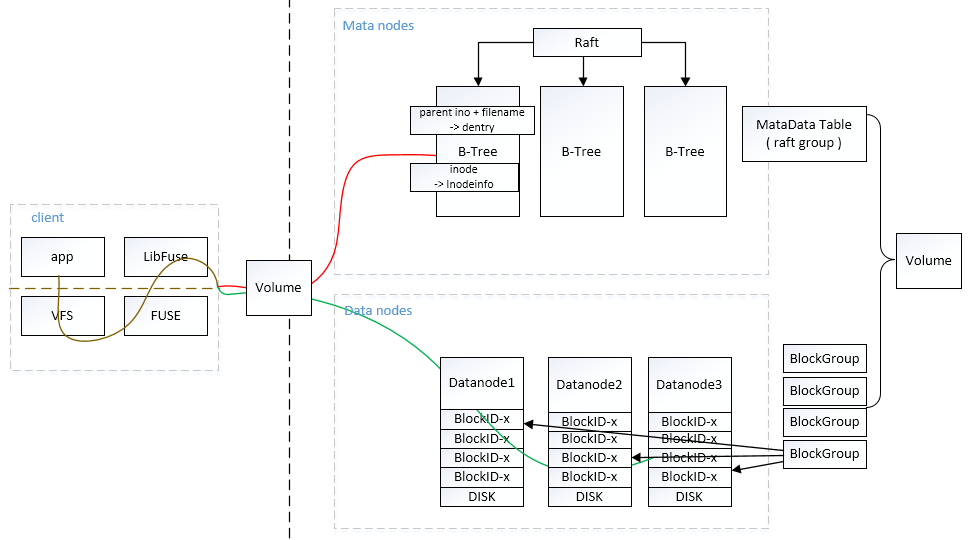
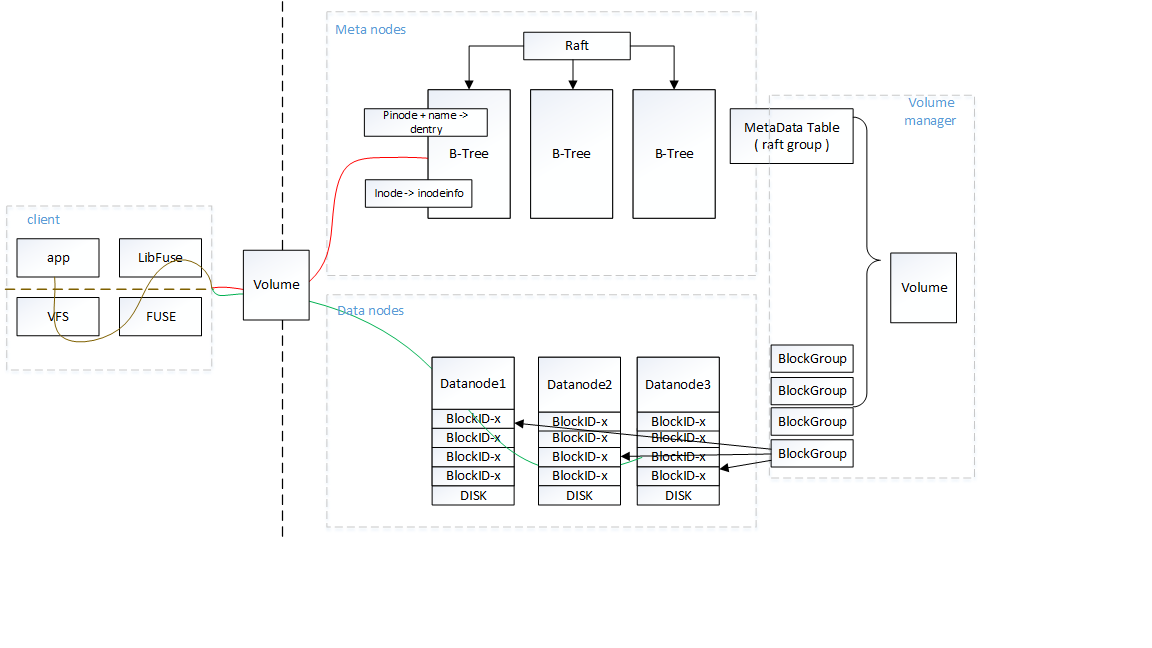
fix spelling mistakes

diff --git a/doc/design.md b/doc/design.md
@@ -7,12 +7,12 @@ See the later sections for more details of each Containerfs component.
 
 #### Volume  
 Volume is a Containerfs instance.  One Containerfs cluster can host millions of volumes.
-A volume has one matadata table and unlimited number of block groups
+A volume has one metadata table and unlimited number of block groups
 
 #### Inode  
 Inode is a data structure recording the file or directory attributes, indexed with a unique 64bit integer.
 
-#### Matadata Table 
+#### Metadata Table 
 A metadata table is a sorted key-value map from "parent inodeID + name" to inode attributes.
 One volume is associated with a metadata table.
 Metadata tables are replicated via Raft, and not sharded by design. 
